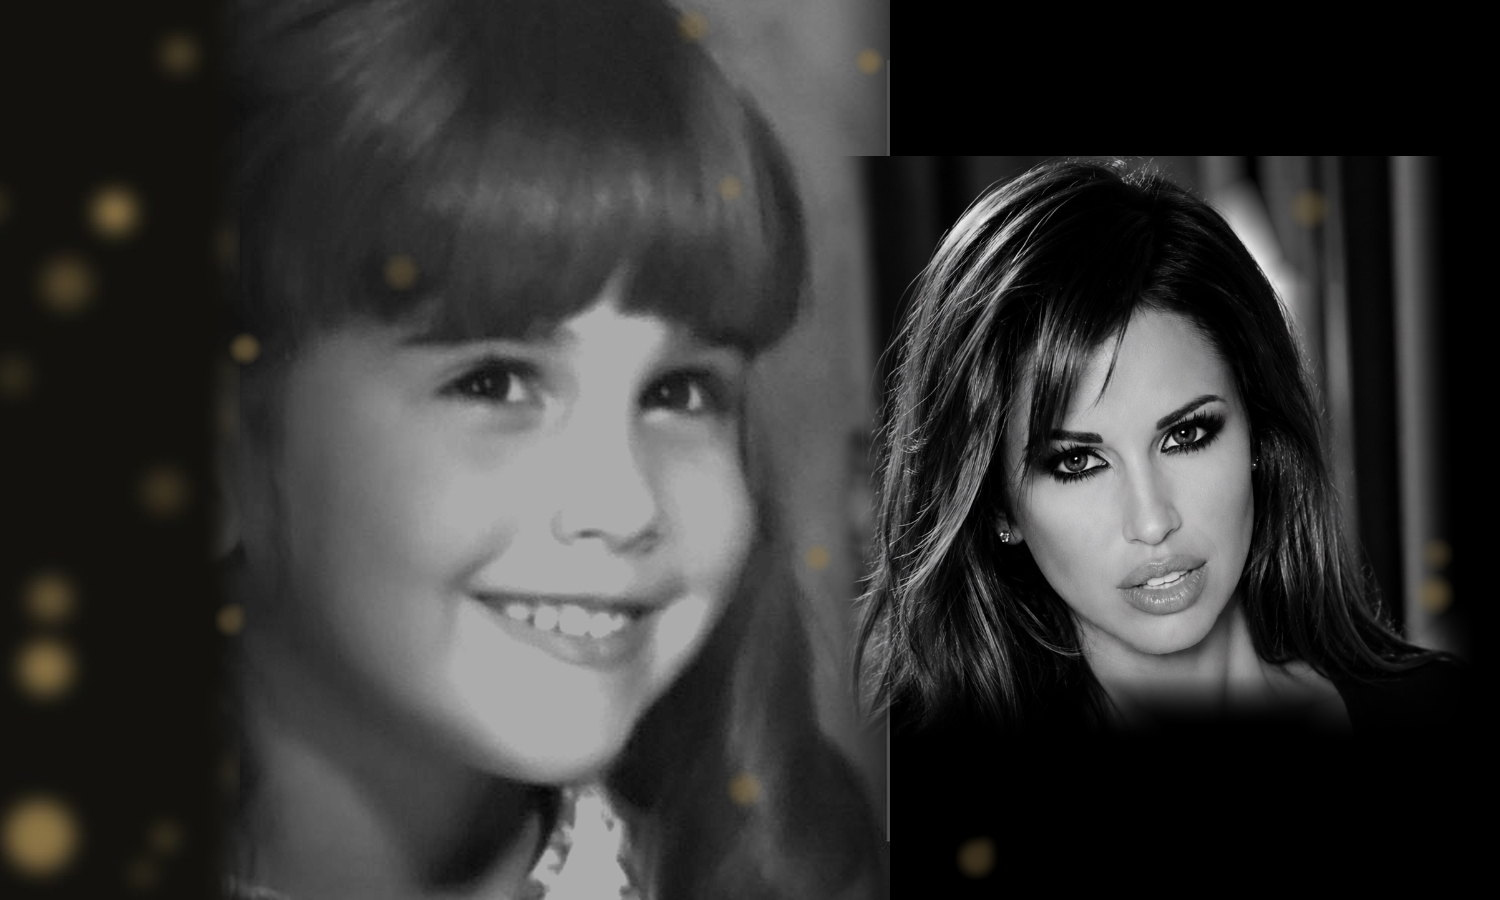
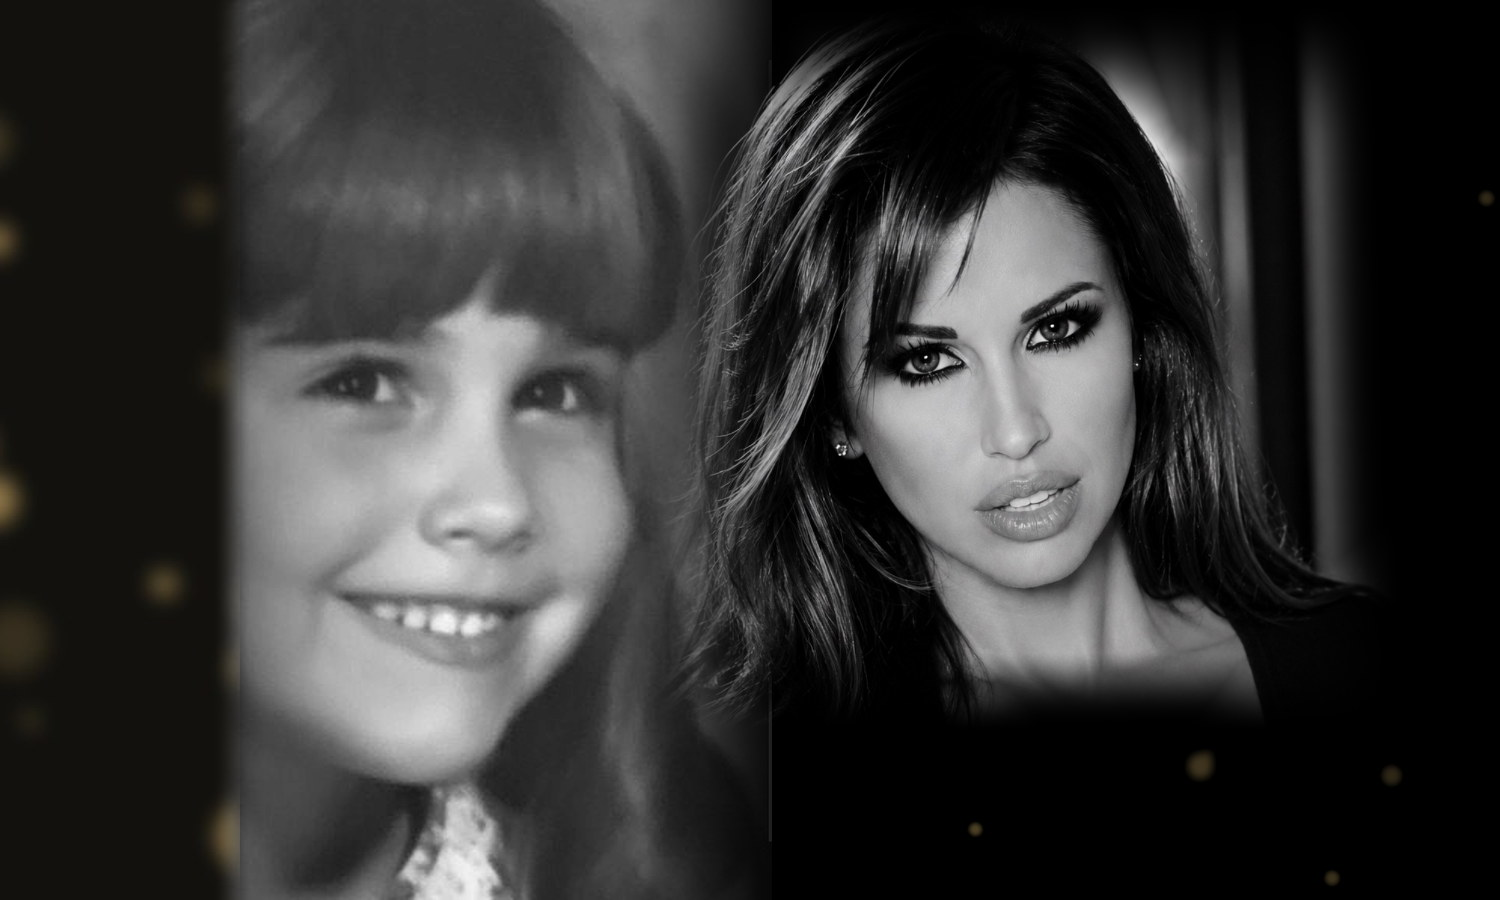
Match both first-chapter portraits to one neutral black and white.
The right side is the Glamour headshot. The childhood photo is graded to the same contrast and brightness, with gold only in the dark background.

diff --git a/app/page.js b/app/page.js
@@ -254,9 +254,9 @@ export default async function Home() {
         </div>
         <div className="signup-banner">
           <picture>
-            <source media="(max-width: 700px)" srcSet="/assets/first-chapter-banner-mobile.jpg?v=4" />
+            <source media="(max-width: 700px)" srcSet="/assets/first-chapter-banner-mobile.jpg?v=5" />
             <img
-              src="/assets/first-chapter-banner.jpg?v=4"
+              src="/assets/first-chapter-banner.jpg?v=5"
               alt="Jen as a girl, and her black-and-white glamour portrait, with gold stars"
               width="2048"
               height="633"
